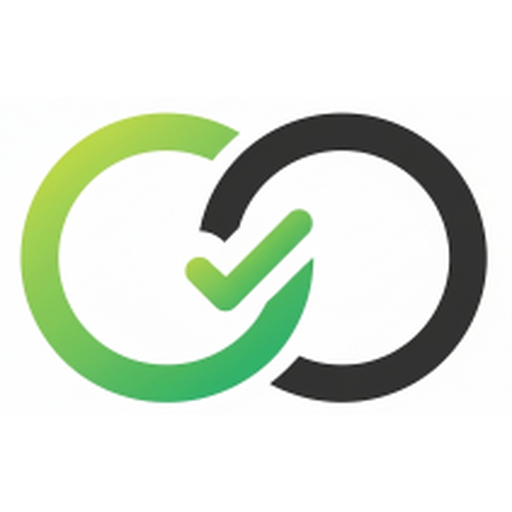
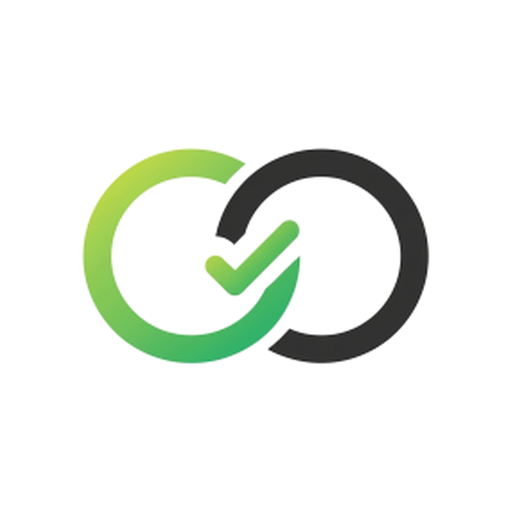
Beheer-icoon op het bureaublad afgerond, met doorzichtige hoeken.

Changed region(s): [[0.0312, 0.2188, 0.9688, 0.8125]]

diff --git a/app/Actions/Time/BuildClockPointHomescreenManifestAction.php b/app/Actions/Time/BuildClockPointHomescreenManifestAction.php
@@ -28,12 +28,12 @@ class BuildClockPointHomescreenManifestAction
         $appId = url('/time-portal/'.$tenantId);
         $manifestUrl = route('public.time-portal.tenant.manifest', $tenantId);
         $scope = rtrim(url('/'), '/').'/';
-        // ?v=3 bust Chrome's icoon-cache bij herinstall — gelijke URL's
+        // ?v=4 bust Chrome's icoon-cache bij herinstall — gelijke URL's
         // zouden anders de oude PNG's blijven tonen.
-        $icon192 = url('/images/pwa/winprox-192.png').'?v=3';
-        $icon512 = url('/images/pwa/winprox-512.png').'?v=3';
-        $maskable192 = url('/images/pwa/winprox-maskable-192.png').'?v=3';
-        $maskable512 = url('/images/pwa/winprox-maskable-512.png').'?v=3';
+        $icon192 = url('/images/pwa/winprox-192.png').'?v=4';
+        $icon512 = url('/images/pwa/winprox-512.png').'?v=4';
+        $maskable192 = url('/images/pwa/winprox-maskable-192.png').'?v=4';
+        $maskable512 = url('/images/pwa/winprox-maskable-512.png').'?v=4';
 
         return [
             'id' => $appId,

diff --git a/app/Actions/Backoffice/BuildBackofficeHomescreenManifestAction.php b/app/Actions/Backoffice/BuildBackofficeHomescreenManifestAction.php
@@ -15,10 +15,10 @@ class BuildBackofficeHomescreenManifestAction
     {
         $appId = url('/backoffice');
         $manifestUrl = route('backoffice.manifest');
-        $icon192 = url('/images/pwa/winprox-192.png').'?v=3';
-        $icon512 = url('/images/pwa/winprox-512.png').'?v=3';
-        $maskable192 = url('/images/pwa/winprox-maskable-192.png').'?v=3';
-        $maskable512 = url('/images/pwa/winprox-maskable-512.png').'?v=3';
+        $icon192 = url('/images/pwa/winprox-192.png').'?v=4';
+        $icon512 = url('/images/pwa/winprox-512.png').'?v=4';
+        $maskable192 = url('/images/pwa/winprox-maskable-192.png').'?v=4';
+        $maskable512 = url('/images/pwa/winprox-maskable-512.png').'?v=4';
 
         return [
             'id' => $appId,
